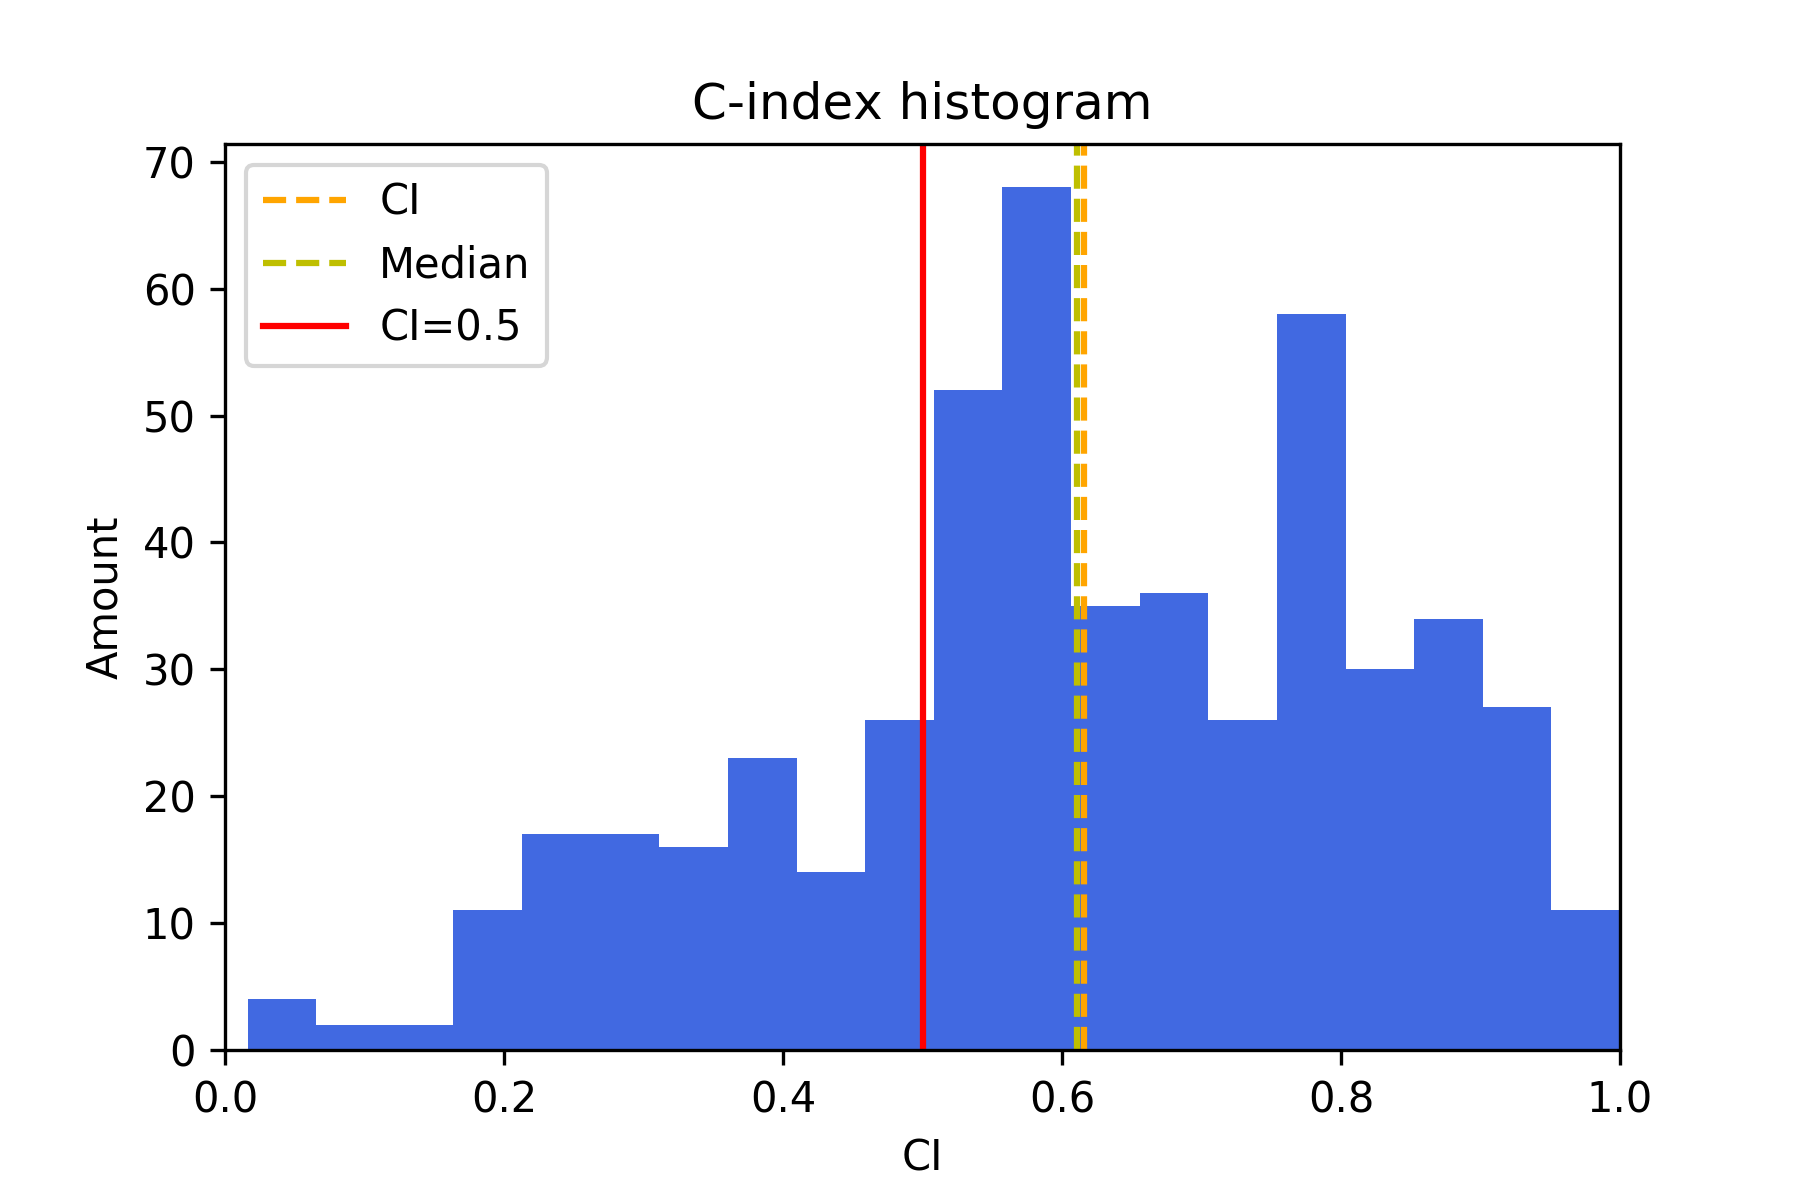
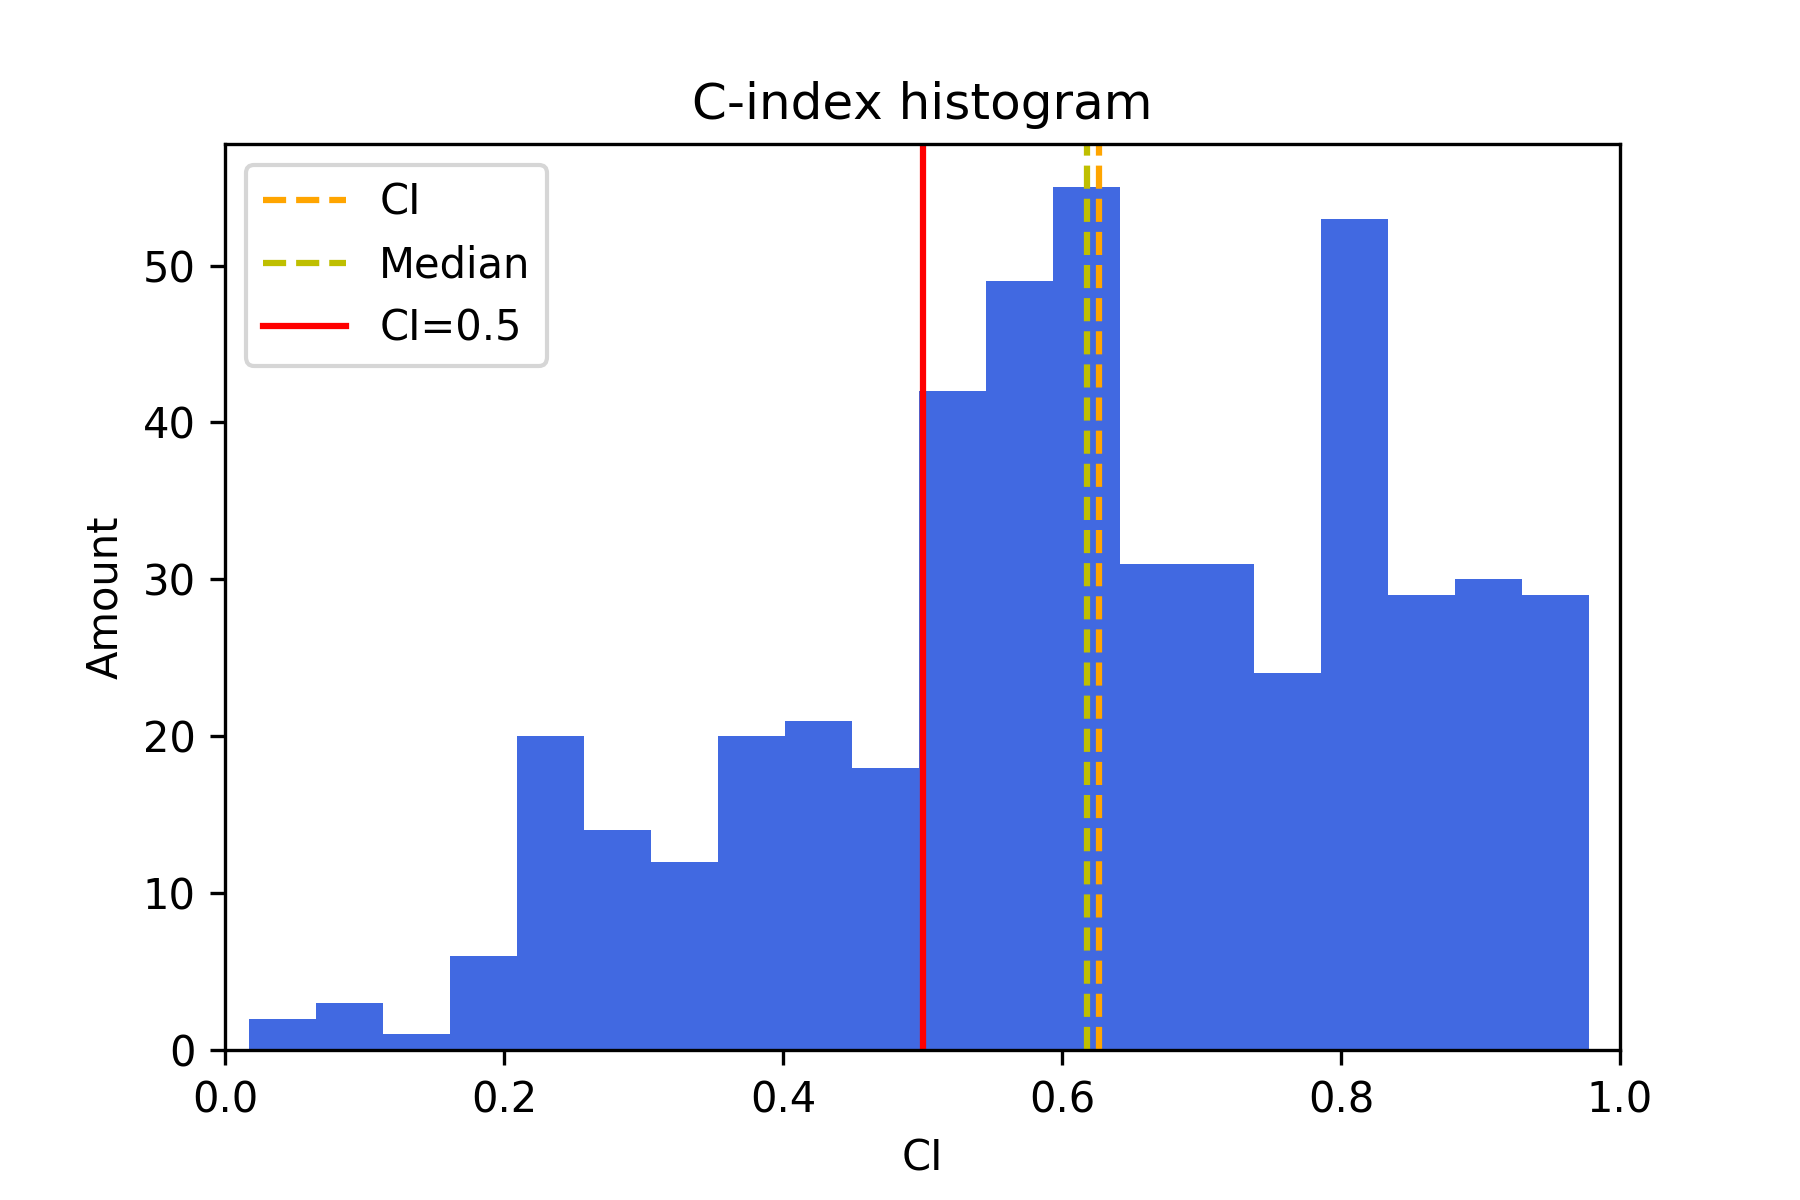
Add residual network convolutional blocks

diff --git a/tex_files/003_design.tex b/tex_files/003_design.tex
@@ -263,18 +263,18 @@ is 0.613 and 0.623 for the test pairs.
     \textbf{Fold} & \textbf{Mixed} & \textbf{Train} & \textbf{Test} 
     & \textbf{Mixed} & \textbf{Train} & \textbf{Test} \\
     \hhline{=======}
-    0 & 17.664 & 50.720 & 5.708 & 0,622 & 0,614 & 0,653 \\
-    1 & 17.653 & 51.076 & 5.610 & 0,619 & 0,629 & 0,604 \\
-    2 & 17.653 & 51.303 & 5.539 & 0,609 & 0,607 & 0,671 \\
-    3 & 17.653 & 50.794 & 5.692 & 0,613 & 0,644 & 0,563 \\
+    0 & 16.359 & 46.804 & 5.330 & 0,627 & 0,634 & 0,639 \\
+    1 & 16.359 & 46.957 & 5.278 & 0,629 & 0,635 & 0,63 \\
+    2 & 16.348 & 47.577 & 5.084 & 0,636 & 0,627 & 0,661 \\
+    3 & 16.348 & 47.274 & 5.176 & 0,618 & 0,644 & 0,6 \\
     \hhline{=======}
-    \textbf{Total} & 70,623 & 203,893 & 22,549 & 0.616 & 0.624 & 0.623 \\
+    \textbf{Total} & 65,414 & 188,612 & 20,868 & 0.627 & 0.635 & 0.632 \\
     \hline
   \end{tabular}
 
   \caption[Volume Only 4-CV results]{
     Results for volume only model using 4-CV \label{tab:volume-4CV}
-    \todo{Update this results}
+    \todo[inline]{Update these results}
   }
 \end{table}
 
@@ -282,7 +282,7 @@ The results obtained with \gls{LOOCV} are shown in \autoref{fig:results-volume-L
 To train this model one element has been removed from the dataset and the model has 
 been trained with the rest of the elements (all minus one). It shows the \gls{CI} of each
 element when comparing it with the training set, so only the mixed pairs \gls{CI} are shown.
-The final \gls{CI} is 0.616 and the median \gls{CI} is 0.611.
+The final \gls{CI} is 0.627 and the median \gls{CI} is 0.618.
 
 These results are very similar from the ones previously obtained of 0.628 as explained in 
 \autoref{sec:state-of-the-art} (state-of-the art).
@@ -294,7 +294,8 @@ These results are very similar from the ones previously obtained of 0.628 as exp
     Volume only model results using \acrshort{LOOCV} \label{fig:results-volume-LOOCV}
     
     Histogram showing the distribution of all the \acrshort{LOOCV} elements' \acrshort{CI}
-    when using mixed pairs to obtain the \acrshort{CI}.
+    when using mixed pairs to obtain the \acrshort{CI}. Final \gls{CI} is 0.627, median
+    \gls{CI} is 0.618.
   }
 \end{figure}
 
@@ -408,8 +409,8 @@ indicator is the mixed \gls{CI}.
 The results using \gls{LOOCV} can be seen represented in \autoref{fig:results-scalar-LOOCV}. 
 In this case, only the mixed pairs have been compared to create the histogram.
 
-The final \gls{CI} with \gls{LOOCV} is 0.746 while the median \gls{CI} is 0.832. The final 
-\gls{CI} using \gls{LOOCV} is very similar to the one obtained using 4-CV (0.746 vs 0.764).
+The final \gls{CI} with \gls{LOOCV} is 0.771 while the median \gls{CI} is 0.862. The final 
+\gls{CI} using \gls{LOOCV} is very similar to the one obtained using 4-CV (0.771 vs 0.764).
 
 \begin{table}
   \centering
@@ -421,12 +422,12 @@ The final \gls{CI} with \gls{LOOCV} is 0.746 while the median \gls{CI} is 0.832.
     \textbf{Fold} & \textbf{Mixed} & \textbf{Train} & \textbf{Test} & 
     \textbf{Mixed} & \textbf{Train} & \textbf{Test} \\
     \hhline{=======}
-    0 & 17.664 & 50.720 & 5.708 & 0,758 & 0,9 & 0,638 \\
-    1 & 17.653 & 51.076 & 5.610 & 0,794 & 0,911 & 0,604 \\
-    2 & 17.653 & 51.303 & 5.539 & 0,738 & 0,898 & 0,679 \\
-    3 & 17.653 & 50.794 & 5.692 & 0,767 & 0,898 & 0,618 \\
+    0 & 16.359 & 46.804 & 5.330 & 0,728 & 0,915 & 0,543 \\
+    1 & 16.359 & 46.957 & 5.278 & 0,809 & 0,927 & 0,64 \\
+    2 & 16.348 & 47.577 & 5.084 & 0,751 & 0,91 & 0,675 \\
+    3 & 16.348 & 47.274 & 5.176 & 0,766 & 0,919 & 0,624 \\
     \hhline{=======}
-    \textbf{Total} & 70,623 & 203,893 & 22,549 & 0.764 & 0.902 & 0.635 \\
+    \textbf{Total} & 65,414 & 188,612 & 20,868 & 0.764 & 0.918 & 0.620 \\
     \hline
   \end{tabular}
 
@@ -442,9 +443,8 @@ The final \gls{CI} with \gls{LOOCV} is 0.746 while the median \gls{CI} is 0.832.
     Scalar only model results using \acrshort{LOOCV} \label{fig:results-scalar-LOOCV}
     
     Histogram showing the distribution of all the \acrshort{LOOCV} elements' \acrshort{CI}
-    when using mixed pairs to obtain the \acrshort{CI}. 
-    In blue the distribution of all the \acrshort{LOOCV} elements. In orange only the uncensored
-    elements, which have more pairs to compare with.
+    when using mixed pairs to obtain the \acrshort{CI}. Final \gls{CI} is 0.771, median 
+    \gls{CI} is 0.862.
   }
 \end{figure}
 
@@ -459,7 +459,8 @@ times.
 
 \begin{figure}
   \centering
-  \missingfigure[figwidth=6cm]{Deep Siamese blocks}
+  \input{drawings/residual_general.tikz.tex}
+  \caption{Residual siamese network general illustration \label{fig:residual-general}}
 \end{figure}
 
 To do so, different types of blocks were used to create the network. 
@@ -469,6 +470,31 @@ one can start as an improvement of the previous ones.
 
 It can take at least one more week to complete this step.
 
+\begin{table}
+  \centering
+  \begin{tabular}{|c||c|c|c||c|c|c|}
+    \cline{2-7}
+    \multicolumn{1}{c|}{} & \multicolumn{3}{|c||}{\textbf{Pairs}} & 
+    \multicolumn{3}{c|}{\textbf{Concordance Index}} \\
+    \hline
+    \textbf{Fold} & \textbf{Mixed} & \textbf{Train} & \textbf{Test} & 
+    \textbf{Mixed} & \textbf{Train} & \textbf{Test} \\
+    \hhline{=======}
+    0 & 222.048 & 330.072 & 37.016 & 0,562 & 0,565 & 0,554 \\
+    1 & 220.704 & 331.832 & 36.600 & 0,59 & 0,61 & 0,567 \\
+    2 & 219.456 & 333.664 & 36.016 & 0,645 & 0,616 & 0,667 \\
+    3 & 222.304 & 329.584 & 37.248 & 0,559 & 0,579 & 0,536 \\
+    \hhline{=======}
+    \textbf{Total} & 884,512 & 1,325,152 & 146,880 & 0.589 & 0.592 & 0.58 \\
+    \hline
+  \end{tabular}
+
+  \caption[Scalar Only 4-CV results]{
+    Results for scalar only model using 4-CV \label{tab:results-scalar-4CV}
+    \todo[inline]{Update these results}
+  }
+\end{table}
+
 \ssecc{Predict patients survival}
 
 This step is yet to be completed. Once there is a working model that allows to compare two 
@@ -476,4 +502,12 @@ individuals to see which one lives more, the prediction of the survival time of 
 should be implemented.
 
 This step should take at most one week to complete.
+
+\ssecc{Write documentation}
+
+Since this project creates a software, some documentation for the software must be written.
+Moreover documenting the code is important to allow more people to work on the project.
+The project's documentation can be found at \url{https://jmigual.github.io/CNNSurv/}.
+
+This task has taken one week to complete.
 

diff --git a/drawings/residual_block_a.tikz.tex b/drawings/residual_block_a.tikz.tex
@@ -1,0 +1,73 @@
+
+\begin{tikzpicture}[every node/.style={scale=.8}]
+
+  \tikzstyle{module}=[rounded corners, draw, align=center]
+  \tikzstyle{FC}=[module, fill=green!30]
+  \tikzstyle{conv}=[module, fill=orange!30]
+  \tikzstyle{io}=[module, fill=purple!30]
+  
+  
+  \node [io] (image) {Input};
+
+  \node [conv, below = of image] (B-C-0) {
+    Convolution \\
+    \( 32 @ 1 \times 1 \times 1 \) \\
+    Same padding
+  };
+  \node [conv, below = of B-C-0] (B-C-1) {
+    Convolution \\
+    \( 1 @ 3 \times 3 \times 3 \) \\
+    Same padding
+  };
+
+  \node [conv, left = of B-C-0] (A-C) {
+    Convolution \\
+    \( 32 @ 1 \times 1 \times 1 \) \\
+    Same padding
+  };
+  \node [conv, right = of B-C-0] (C-C-0) {
+    Convolution \\
+    \( 32 @ 1 \times 1 \times 1 \) \\
+    Same padding
+  };
+  \foreach \x [remember=\x as \lastx (initially 0)] in {1,2} {
+    \node [conv, below = of C-C-\lastx] (C-C-\x) {
+      Convolution \\
+      \( 32 @ 3 \times 3 \times 3 \) \\
+      Same padding
+    };
+  }
+
+  \node [FC, below = 3 of B-C-1] (con) {Concatenate};
+  
+  \node [conv, below = of con] (F-C) {
+    Convolution \\
+    \( 50 @ 1 \times 1 \times 1 \) \\
+    Same padding
+    };
+  \node [circle, FC, below = of F-C] (sum) {\LARGE +};
+  \node [io, below = of sum] (out) {Block A out};
+
+  \node [right = of C-C-0] (aux) {};
+
+  \draw [-latex] (image) -| (A-C) node[midway, above] {\( 31 \times 31 \times 31 \times 50 \)};
+  \draw [-latex] (image) -- (B-C-0) node[midway, left] {\( 31 \times 31 \times 31 \times 50 \)};
+  \draw [-latex] (image) -| (C-C-0) node[midway, above] {\( 31 \times 31 \times 31 \times 50 \)};
+
+  \draw [-latex] (B-C-0) -- (B-C-1) node[midway, left] {\( 31 \times 31 \times 31 \times 32 \)};
+  \draw [-latex] (C-C-0) -- (C-C-1) node[midway, left] {\( 31 \times 31 \times 31 \times 32 \)};
+  \draw [-latex] (C-C-1) -- (C-C-2) node[midway, left] {\( 31 \times 31 \times 31 \times 32 \)};
+
+  \draw [-latex] (A-C) |- (con) node[near start, right] {\( 31 \times 31 \times 31 \times 32 \)};
+  \draw [-latex] (B-C-1) -- (con) node[midway, left] {\( 31 \times 31 \times 31 \times 32 \)};
+  \draw [-latex] (C-C-2) |- (con) node[near start, left] {\( 31 \times 31 \times 31 \times 32 \)};
+
+  \draw [-latex] (con) -- (F-C) node[midway, left] {\( 31 \times 31 \times 31 \times 96 \)};
+  \draw [-latex] (F-C) -- (sum) node[midway, left] {\( 31 \times 31 \times 31 \times 50 \)};
+  \draw (image) -| (aux.center);
+  \draw [-latex] (aux.center) |- (sum) node[near end, above] {\( 31 \times 31 \times 31 \times 50 \)};
+  \draw [-latex] (sum) -- (out) node[midway, left] {\( 31 \times 31 \times 31 \times 50 \)};
+
+\end{tikzpicture}
+
+

diff --git a/drawings/residual_general.tikz.tex b/drawings/residual_general.tikz.tex
@@ -1,0 +1,50 @@
+
+\begin{tikzpicture}[every node/.style={scale=.8}]
+
+  \tikzstyle{module}=[rounded corners, draw, align=center]
+  \tikzstyle{FC}=[module, fill=green!30]
+  \tikzstyle{conv}=[module, fill=orange!30]
+  \tikzstyle{io}=[module, fill=purple!30]
+  
+  
+  \node [io] (image) {Image};
+
+  \node [conv, below = of image] (S) {Stem bloc};
+  \node [conv, below = of S] (BA) {2 x Block A 1};
+  \node [conv, below = of BA] (R-A) {Reduction A};
+  \node [conv, below = of R-A] (BB) {2 x Block B};
+  \node [conv, below = of BB] (R-B) {Reduction B};
+  \node [conv, below = of R-B] (P) {
+    Average pooling \\
+    \( 350 @ 6 \times 6 \times 6 \)
+  };
+
+  \node [right = 5 of image] (aux) {};
+  \node [io, right = of aux] (scalar) {Scalar};
+
+  \node [FC, below = of aux] (con) {Concatenate + \\ flatten};
+  \node [left = of con] (aux-2) {};
+  \node [FC, below = of con] (FC-1) {FC \\ 800 units};
+  \node [FC, below = of FC-1] (FC-2) {FC \\ 100 units};
+  \node [FC, below = of FC-2] (FC-3) {FC \\ 10 units};
+
+  \node [io, below = of FC-3] (out) {Sister out};
+
+  \draw [-latex] (image) -- (S) node[midway, right] {\( 64 \times 64 \times 64 \times 1 \)};
+  \draw [-latex] (S) -- (BA) node[midway, right] {\( 31 \times 31 \times 31 \times 50 \)};
+  \draw [-latex] (BA) -- (R-A) node[midway, right] {\( 31 \times 31 \times 31 \times 50 \)};
+  \draw [-latex] (R-A) -- (BB) node[midway, right] {\( 15 \times 15 \times 15 \times 130 \)};
+  \draw [-latex] (BB) -- (R-B) node[midway, right] {\( 15 \times 15 \times 15 \times 130 \)};
+  \draw [-latex] (R-B) -- (P) node[midway, right] {\( 7 \times 7 \times 7 \times 350 \)};
+
+  \draw (P) -| (aux-2.center)  node[pos=.3, below] {\( 2 \times 2 \times 2 \times 350 \)};
+  \draw [-latex] (aux-2.center) |- (con);
+  \draw [-latex] (scalar) |- (con) node[pos=.15, left] {\( 725 \)};
+  
+  \draw [-latex] (con) -- (FC-1) node[midway, right] {\( 3.525 \)};
+  \draw [-latex] (FC-1) -- (FC-2) node[midway, right] {\( 800 \)};
+  \draw [-latex] (FC-2) -- (FC-3) node[midway, right] {\( 100 \)};
+  \draw [-latex] (FC-3) -- (out) node[midway, right] {\( 10 \)};
+\end{tikzpicture}
+
+

diff --git a/drawings/residual_stem.tikz.tex b/drawings/residual_stem.tikz.tex
@@ -1,0 +1,39 @@
+
+\begin{tikzpicture}[every node/.style={scale=.8}]
+
+  \tikzstyle{module}=[rounded corners, draw, align=center]
+  \tikzstyle{FC}=[module, fill=green!30]
+  \tikzstyle{conv}=[module, fill=orange!30]
+  \tikzstyle{io}=[module, fill=purple!30]
+  
+  
+  \node [io] (image) {Image};
+
+  \node [conv, below left = of image] (A-C) {
+    Convolution \\
+    \( 25 @ 3 \times 3 \times 3 \) \\
+    Stride = 2
+  };
+  \node [conv, below right = of image] (B-P) {
+    Max  Pooling \\
+    \( 1 @ 3 \times 3 \times 3 \) \\
+    Stride = 2
+  };
+  \node [conv, below = of B-P] (B-C) {
+    Convolution \\
+    \( 25 @ 1 \times 1 \times 1 \) \\
+    Same padding
+  };
+  \node [FC, below = 3 of B-C] (con) {Concatenate};
+  \node [io, below = of con] (out) {Stem out};
+
+  \draw [-latex] (image) -| (A-C) node[midway, above] {\( 64 \times 64 \times 64 \times 1 \)};
+  \draw [-latex] (image) -| (B-P) node[midway, above] {\( 64 \times 64 \times 64 \times 1 \)};
+  \draw [-latex] (B-P) -- (B-C) node[midway, left] {\( 31 \times 31 \times 31 \times 1 \)};
+  \draw [-latex] (B-C) |- (con) node[near start, left] {\( 31 \times 31 \times 31 \times 25 \)};
+  \draw [-latex] (A-C) |- (con) node[near start, right] {\( 31 \times 31 \times 31 \times 25 \)};
+  \draw [-latex] (con) -- (out) node[midway, left] {\( 31 \times 31 \times 31 \times 50 \)};
+
+\end{tikzpicture}
+
+

diff --git a/tex_files/configuration.tex b/tex_files/configuration.tex
@@ -59,7 +59,15 @@ urlcolor={blue!80!black}]{hyperref}
 
 % Must be loaded after hyperref
 \usepackage[acronym, toc, numberline, nopostdot, xindy, style=index]{glossaries}
-\usepackage[bindingoffset=1.5cm, textwidth=15cm, top=3cm, bottom=3cm]{geometry}
+\usepackage[
+  % bindingoffset=1.5cm,
+  textwidth=15cm, 
+  left=3cm,
+  top=3cm, 
+  bottom=3cm,
+  marginparwidth=2cm,
+  % showframe,
+  ]{geometry}
 
 
 %%%%%%%% END OF INCLUDES %%%%%%%%%%
